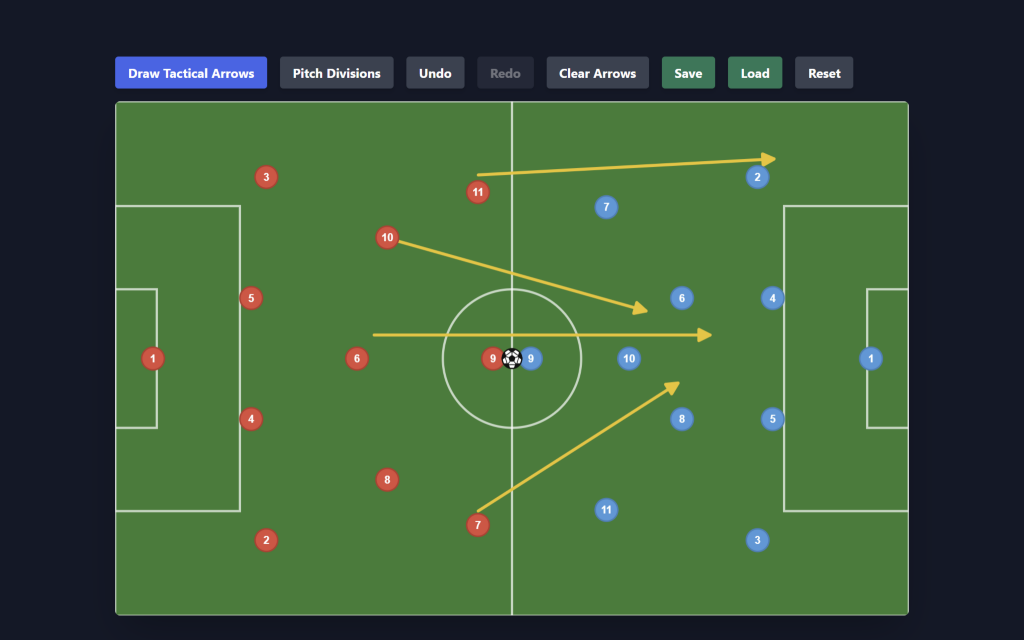
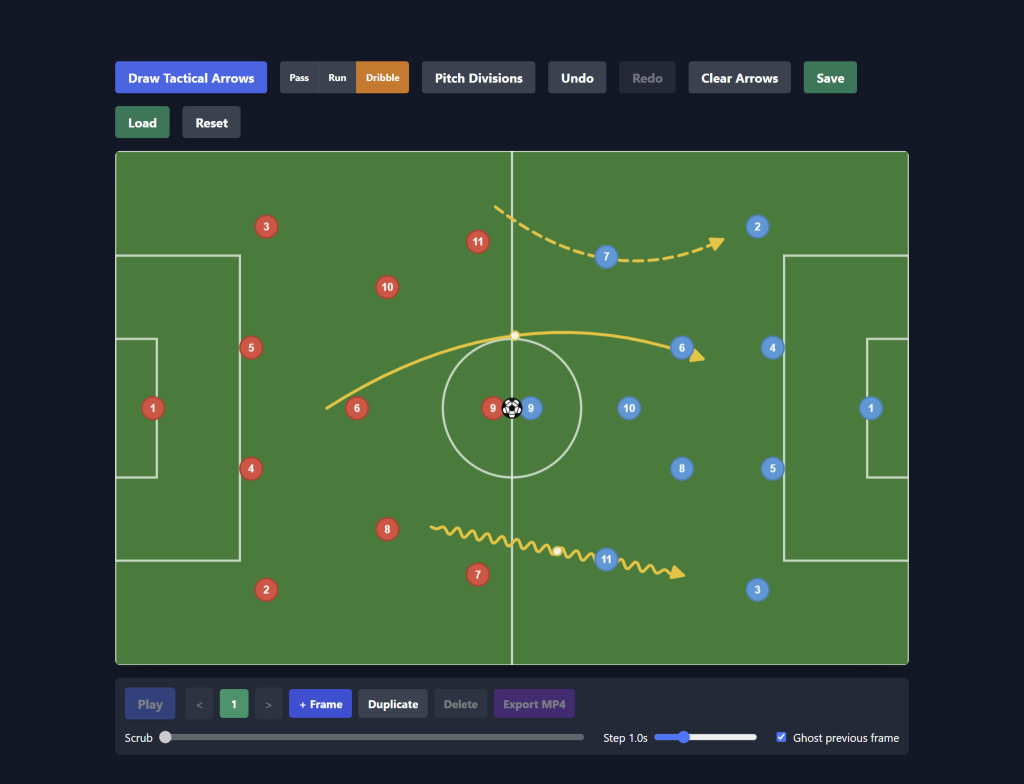
Update README and screenshot for MP4 export and styled curved arrows
Document Pass, Run, and Dribble arrow styles, curved arrow handles, and FFmpeg.wasm MP4 export in the README, refresh the arrows screenshot, and update the roadmap.

diff --git a/README.md b/README.md
@@ -9,8 +9,14 @@ A modern, responsive, browser-based tactical football board for match analysis. 
 ### Full 11v11 setup
 A 105×68 m pitch with all line markings and a complete 4-3-3 (red) vs 4-2-3-1 (blue) setup, plus a classic black-and-white ball. Every token can be dragged with the mouse or a finger, and is kept inside the pitch lines.
 
-### Tactical arrows
-Switch on **Draw Tactical Arrows** to freeze the players and sketch passing or movement lines. Stray taps are ignored, and arrows live in the store, so they take part in undo/redo, save and load.
+### Tactical arrows (Pass, Run, Dribble) & curved paths
+Switch on **Draw Tactical Arrows** to freeze the players and sketch lines in three distinct tactical styles:
+
+- **Pass:** solid yellow arrow for ball passes
+- **Run:** dashed arrow for off-the-ball player runs
+- **Dribble:** wavy arrow for ball-carrier dribbles
+
+Every drawn arrow has a draggable midpoint handle so you can bend any pass, run or dribble into a smooth curve. Stray taps are ignored, and arrows live in the store, so they take part in undo/redo, save and load.
 
 ![Tactical arrows](docs/board-arrows.png)
 
@@ -33,7 +39,8 @@ Build a play step by step with keyframes. Set up the first frame, press **+ Fram
 - **Scrub slider:** drag to preview the movement between two frames, and release to snap to the nearest one.
 - **Ghosting:** faded tokens and dashed trails show where every piece stood in the previous frame, so you can see each movement while editing.
 - **Per-frame arrows:** a pass or run is drawn in the step where it happens.
-- The board is locked during playback, so nothing moves by accident.
+- **Client-side MP4 export:** click **Export MP4** to render the interpolated 30 fps keyframe transitions in the browser with FFmpeg.wasm and download a ready-to-share `tactical-board.mp4` video.
+- The board is locked during playback and export, so nothing moves by accident.
 
 ![Timeline with ghost trails](docs/board-timeline.png)
 
@@ -53,6 +60,7 @@ A `ResizeObserver` keeps the Konva stage scaled to its container without losing 
 - **Angular**: standalone components, signals, OnPush change detection
 - **NgRx Signals**: single store for the timeline frames, player positions, arrows and undo/redo history
 - **Konva.js**: used natively outside the Angular zone for smooth rendering
+- **FFmpeg.wasm**: client-side 30 fps H.264 MP4 video encoding directly in the browser
 - **Tailwind CSS v3**
 
 ## Architecture Notes
@@ -77,9 +85,9 @@ Then open http://localhost:4200.
 - [x] Undo / redo / clear, keyboard shortcuts, reset, save & load
 - [x] Pitch divisions overlay
 - [x] Timeline engine: keyframes, animated playback, scrubber, ghosting
+- [x] Client-side MP4 export with FFmpeg.wasm
+- [x] Arrow styles (pass, run, dribble) and curved arrows
 - [ ] AI-driven tactical setups via natural language
-- [ ] Client-side MP4 export with FFmpeg.wasm
-- [ ] Arrow styles (pass, run, dribble) and curved arrows
 
 ## Author
 
